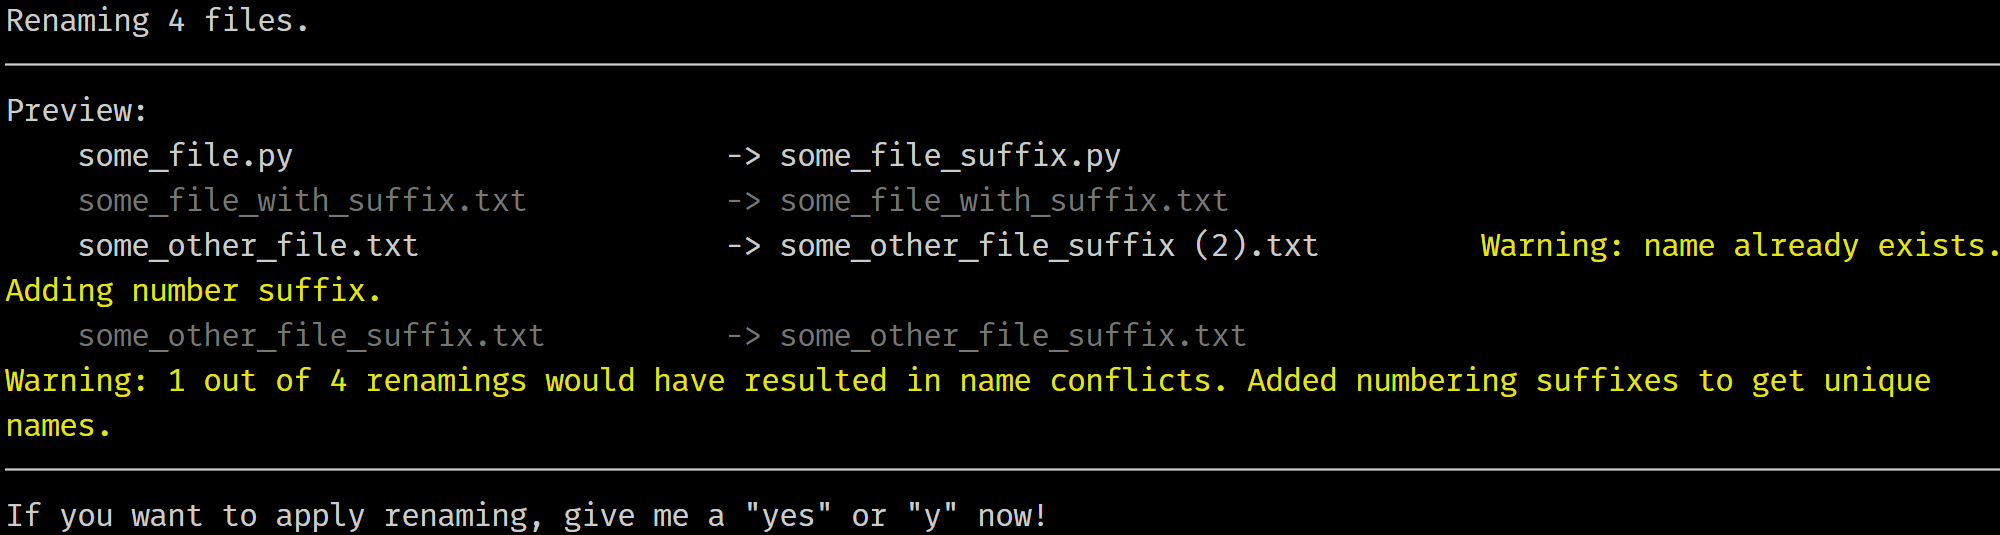
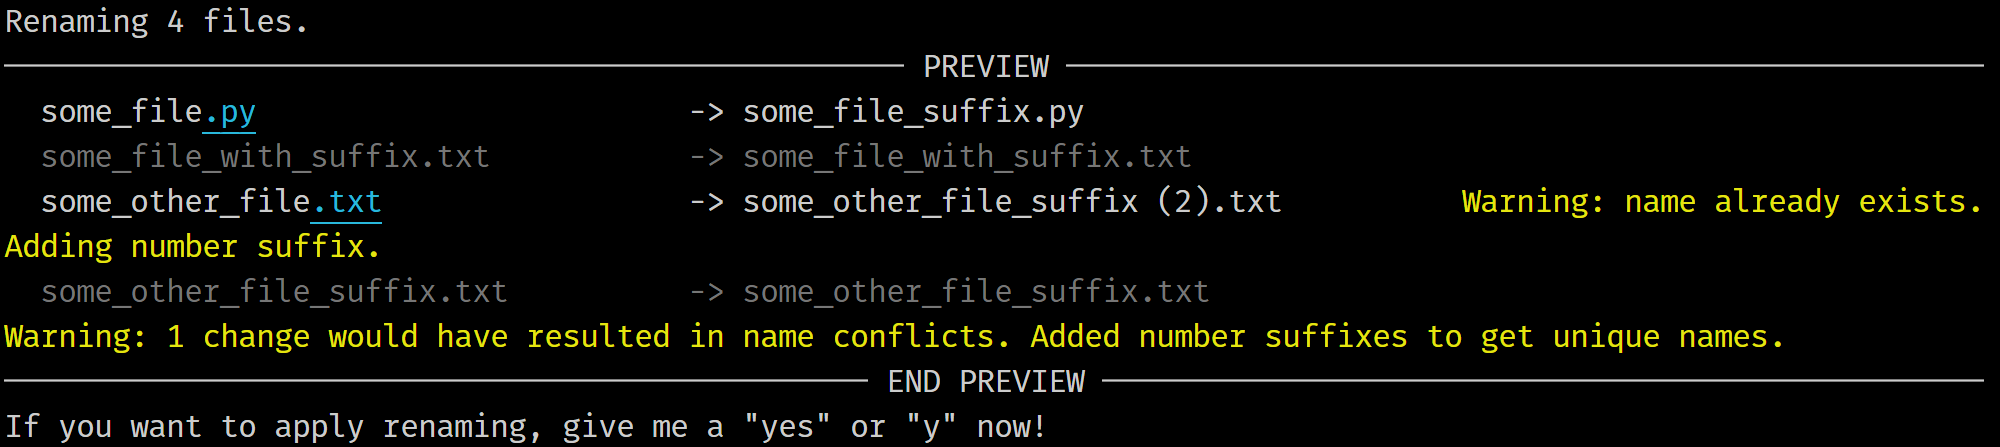
feat(rename): highlight regex match in report

diff --git a/clifs/plugins/rename.py b/clifs/plugins/rename.py
@@ -6,8 +6,10 @@ from argparse import ArgumentParser, Namespace
 from pathlib import Path
 from typing import Counter, List, Literal, Set
 
+from rich.text import Text
+
 from clifs import ClifsPlugin
-from clifs.utils_cli import cli_bar, print_line, set_style, user_query
+from clifs.utils_cli import MatchHighlighter, cli_bar, print_line, set_style, user_query
 from clifs.utils_fs import INDENT, PathGetterMixin, get_unique_path
 
 
@@ -69,6 +71,7 @@ class Renamer(ClifsPlugin, PathGetterMixin):
         if self.rename_dirs:
             # process deeper folders first to avoid changing paths on the fly
             self.dirs = self.sort_paths(self.dirs)
+        self.highlight_match = MatchHighlighter(pattern=self.pattern)
 
     def run(self) -> None:
         if not self.rename_dirs:
@@ -106,30 +109,33 @@ class Renamer(ClifsPlugin, PathGetterMixin):
         self.counter["paths_total"] = len(paths)
 
         self.console.print(f"Renaming {self.counter['paths_total']} {path_type}.")
-        print_line(self.console)
         paths_to_be_added: Set[Path] = set()
         paths_to_be_deleted: Set[Path] = set()
         if preview_mode:
-            self.console.print("Preview:")
+            print_line(self.console, "PREVIEW")
 
         num_path = 0
         for num_path, path in enumerate(paths, 1):
             name_old = path.name
             name_new = re.sub(self.pattern, self.replacement, name_old)
-            message_rename = f"{name_old:35} -> {name_new:35}"
+            messages: List[Text] = []
 
             # skip items if renaming would result in bad characters
             found_bad_chars = self.find_bad_char(name_new)
             if found_bad_chars:
-                message_rename += set_style(
-                    f"{INDENT}Error: not doing renaming as it would result "
-                    f"in bad characters: '{','.join(found_bad_chars)}'",
-                    "error",
+                messages.append(
+                    Text(
+                        f"{INDENT}Error: not doing renaming as it would result "
+                        f"in invalid characters: '{','.join(found_bad_chars)}'",
+                        style="error",
+                    )
                 )
                 self.counter["bad_results"] += 1
                 self.print_rename_message(
-                    message_rename,
+                    name_old,
+                    name_new,
                     num_path,
+                    add_messages=messages,
                     preview_mode=preview_mode,
                 )
                 continue
@@ -145,28 +151,25 @@ class Renamer(ClifsPlugin, PathGetterMixin):
             if path_new != path_unique:
                 path_new = path_unique
                 name_new = path_unique.name
-                message_rename = f"{name_old:35} -> {name_new:35}"
-                message_rename += set_style(
-                    f"{INDENT}Warning: name already exists. Adding number suffix.",
-                    "warning",
+                messages.append(
+                    Text(
+                        f"{INDENT}Warning: name already exists. Adding number suffix.",
+                        style="warning",
+                    )
                 )
                 self.counter["name_conflicts"] += 1
 
-            # skip items that are not renamed
-            if path_new == path:
-                message_rename = set_style(message_rename, "bright_black")
-                self.print_rename_message(
-                    message_rename,
-                    num_path,
-                    preview_mode=preview_mode,
-                )
-                continue
-
             self.print_rename_message(
-                message_rename,
+                name_old,
+                name_new,
                 num_path,
+                add_messages=messages,
                 preview_mode=preview_mode,
             )
+            # skip items that are not renamed
+            if path_new == path:
+                continue
+
             if not preview_mode:
                 path.rename(path_new)
                 self.counter["paths_renamed"] += 1
@@ -177,21 +180,22 @@ class Renamer(ClifsPlugin, PathGetterMixin):
                 paths_to_be_deleted.add(path)
 
         if self.counter["bad_results"] > 0:
+            noun = "item" if self.counter["name_conflicts"] == 1 else "items"
             self.console.print(
                 set_style(
-                    f"Warning: {self.counter['bad_results']} out of "
-                    f"{self.counter['paths_total']} files not renamed as it would "
-                    "result in bad characters.",
+                    f"Warning: {self.counter['bad_results']} {noun} not renamed, "
+                    "as it would result in invalid characters.",
                     "warning",
                 )
             )
 
         if self.counter["name_conflicts"] > 0:
+            noun = "change" if self.counter["name_conflicts"] == 1 else "changes"
             self.console.print(
                 set_style(
-                    f"Warning: {self.counter['name_conflicts']} out of "
-                    f"{self.counter['paths_total']} renamings would have resulted in "
-                    "name conflicts. Added numbering suffixes to get unique names.",
+                    f"Warning: {self.counter['name_conflicts']} {noun} would have "
+                    "resulted in name conflicts. "
+                    "Added number suffixes to get unique names.",
                     "warning",
                 )
             )
@@ -201,27 +205,46 @@ class Renamer(ClifsPlugin, PathGetterMixin):
                 f"Hurray, {num_path} {path_type} have been processed, "
                 f"{self.counter['paths_renamed']} have been renamed."
             )
-        print_line(self.console)
-
-    def print_rename_message(
-        self,
-        message: str,
-        num_file: int,
-        preview_mode: bool = False,
-        space_prefix: str = "    ",
-    ) -> None:
         if preview_mode:
-            self.console.print(space_prefix + message)
+            print_line(self.console, "END OF PREVIEW")
+
+    def print_rename_message(  # pylint: disable=too-many-arguments
+        self,
+        name_old: str,
+        name_new: str,
+        num_path: int,
+        add_messages: List[Text],
+        preview_mode: bool = False,
+    ) -> None:
+        indent = 2
+        padding = 35
+
+        if name_new == name_old:
+            print_message = Text(
+                f"{name_old:{padding}} -> {name_new:{padding}}", style="bright_black"
+            )
+        else:
+            highlight_old_name = self.highlight_match(name_old)
+            highlight_old_name.pad_right(padding - len(name_old))
+            print_message = highlight_old_name + Text(f" -> {name_new:{padding}}")
+
+        for add_mes in add_messages:
+            add_mes.pad_left(1)
+            print_message += add_mes
+        print_message.pad_left(indent)
+
+        if preview_mode:
+            self.console.print(print_message)
         else:
             cli_bar(
-                num_file,
+                num_path,
                 self.counter["paths_total"],
-                suffix=space_prefix + message,
+                suffix=print_message,
                 console=self.console,
             )
 
     @staticmethod
     def find_bad_char(string: str) -> List[str]:
-        """Check stings for characters causing problems in windows file system."""
+        """Check stings for characters causing problems in Windows file system."""
         bad_chars = r"~“#%&*:<>?/\{|}"
         return [x for x in bad_chars if x in string]

diff --git a/clifs/utils_cli.py b/clifs/utils_cli.py
@@ -1,11 +1,13 @@
 """Utilities for the command line interface"""
 
 import argparse
-from typing import Iterable, Optional
+from typing import Iterable, Optional, Union
 
 from rich.console import Console, RenderableType
+from rich.highlighter import Highlighter
 from rich.progress import BarColumn, Progress, TaskProgressColumn, TimeRemainingColumn
 from rich.rule import Rule
+from rich.text import Text
 from rich.theme import Theme
 
 THEME_RICH = Theme(
@@ -19,9 +21,27 @@ THEME_RICH = Theme(
         "warning": "yellow",
         "error": "red",
         "folder": "yellow",
+        "regex_match": "underline bright_cyan",
     },
 )
 CONSOLE = Console(theme=THEME_RICH, highlight=False)
+
+
+class MatchHighlighter(Highlighter):  # pylint: disable=too-few-public-methods
+    """Applies highlighting from a list of regular expressions."""
+
+    def __init__(self, pattern: str):
+        self.pattern = pattern
+        self.style = "regex_match"
+
+    def highlight(self, text: Text) -> None:
+        """Highlight :class:`rich.text.Text` at match location.
+
+        Args:
+            text (~Text): Text to highlighted.
+
+        """
+        text.highlight_regex(self.pattern, style=self.style)
 
 
 def set_style(
@@ -82,7 +102,7 @@ def size2str(size: float, color: str = "cyan") -> str:
 def cli_bar(  # pylint: disable=too-many-arguments
     status: int,
     total: int,
-    suffix: str = "",
+    suffix: Union[str, Text] = "",
     print_out: bool = True,
     bar_len: int = 20,
     console: Optional[Console] = None,
@@ -99,14 +119,14 @@ def cli_bar(  # pylint: disable=too-many-arguments
     """
     filled_len = int(round(bar_len * status / float(total)))
     percents = round(100.0 * status / float(total), 1)
-    res_bar = "█" * filled_len + "-" * (bar_len - filled_len)
-    output = f"|{res_bar}| {percents:5}% {suffix}"
+    proc_bar = "█" * filled_len + "-" * (bar_len - filled_len)
+    bar_info = f"|{proc_bar}| {percents:5}%"
     if print_out:
         if console:
-            console.print(output)
+            console.print(bar_info, suffix)
         else:
-            print(output)
-    return output
+            print(bar_info + " " + str(suffix))
+    return bar_info + " " + str(suffix)
 
 
 def user_query(message: str) -> bool:
@@ -127,7 +147,7 @@ def print_line(console: Console = CONSOLE, title: str = "") -> None:
     :param console: rich.console to print to, defaults to CONSOLE
     :param title: Title included in the line, defaults to ""
     """
-    console.print(Rule(title=title, align="left"))
+    console.print(Rule(title=title, align="center"))
 
 
 def get_count_progress() -> Progress:

diff --git a/README.md b/README.md
@@ -26,7 +26,7 @@ Rename files or directories using regular expressions. Supports options such as 
 Command:
 
 ```powershell
-clifs ren ".\some_dir" --recursive --pattern "(.*)(?<!_suffix)\.(.*)" --replacement "\1_suffix.\2"
+clifs ren ".\some_dir" --recursive --pattern "(?<!_suffix)\.(.*)" --replacement "_suffix.\1"
 ```
 
 Output:
